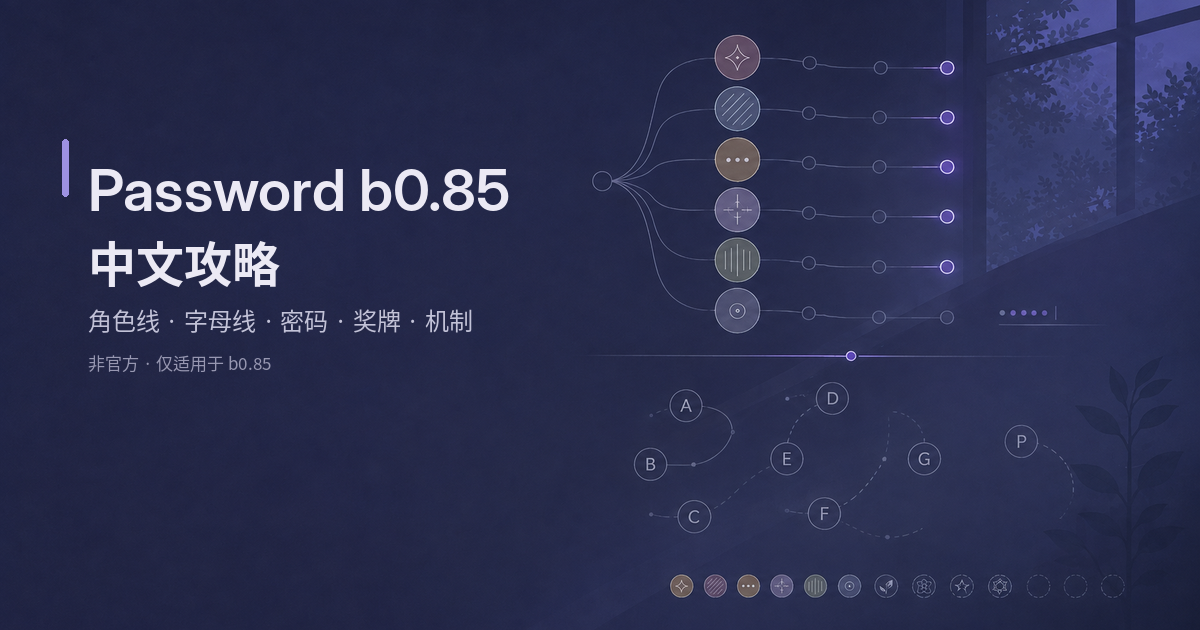
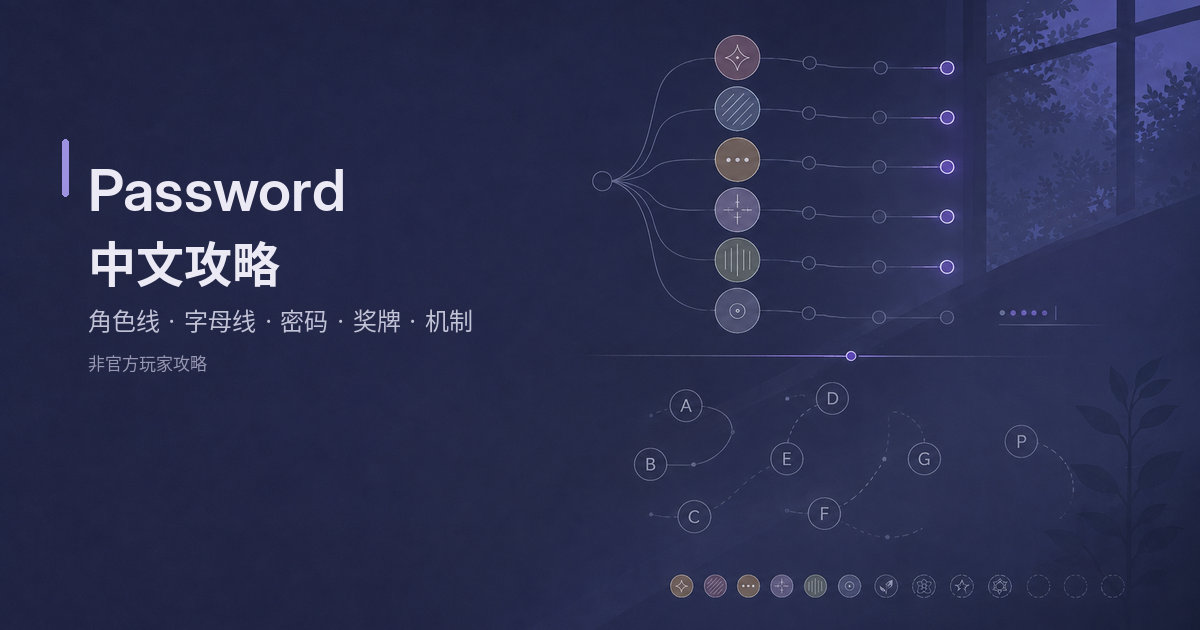
Decouple PW social cards from game version

Changed region(s): [[0.2775, 0.2714, 0.4317, 0.3317], [0.1233, 0.5429, 0.2158, 0.6032]]

diff --git a/scripts/render-social-cards.py b/scripts/render-social-cards.py
@@ -1,0 +1,51 @@
+#!/usr/bin/env python3
+"""Regenerate the approved bilingual cards with Pillow (python3 -m pip install Pillow).
+
+Run from any directory: python3 scripts/render-social-cards.py
+Edit scripts/social-cards/cards.json to change the captions. The shared artwork
+and English label layer preserve the approved branding, diagrams and summary
+pixels. Unchanged caption prefixes also retain their original glyphs. The clean
+label backgrounds were recovered from the archived text-free artwork, not painted
+over. Caption font subsets and their licenses are bundled beside the source.
+
+This manual export workflow does not change Quarto or page SEO metadata.
+"""
+
+import json
+from pathlib import Path
+
+from PIL import Image, ImageDraw, ImageFont
+
+
+ROOT = Path(__file__).resolve().parents[1]
+SOURCE = ROOT / "scripts/social-cards"
+
+
+def main():
+    spec = json.loads((SOURCE / "cards.json").read_text(encoding="utf-8"))
+    artwork = Image.open(SOURCE / spec["artwork"]).convert("RGBA")
+    assert artwork.size == tuple(spec["canvas"]) == (1200, 630)
+    for locale, card in spec["cards"].items():
+        image = artwork.copy()
+        if "labels" in card:
+            labels = Image.open(SOURCE / card["labels"]).convert("RGBA")
+            assert labels.size == image.size
+            image.alpha_composite(labels)
+        prefix = card["preserved_prefix"]
+        assert card["caption"].startswith(prefix)
+        suffix = card["caption"][len(prefix):]
+        font = ImageFont.truetype(
+            str(SOURCE / card["font"]), card["font_size"],
+            layout_engine=ImageFont.Layout.BASIC,
+        )
+        ImageDraw.Draw(image).text(
+            tuple(card["append_position"]), suffix, font=font,
+            fill=tuple(spec["caption_color"]),
+        )
+        output = ROOT / card["output"]
+        image.convert("RGB").save(output, optimize=True)
+        print(f"{locale}: {output.relative_to(ROOT)} — 1200×630")
+
+
+if __name__ == "__main__":
+    main()
